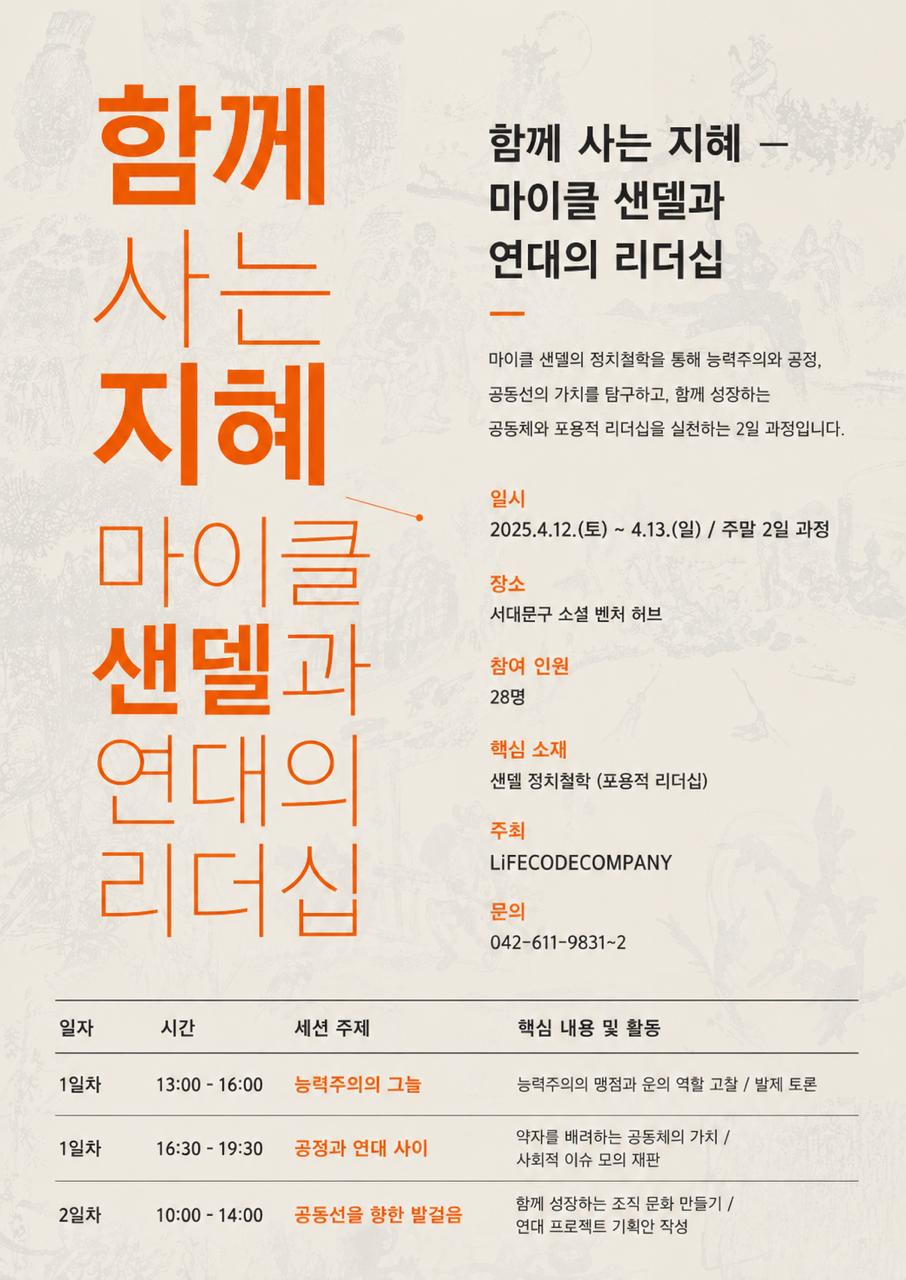
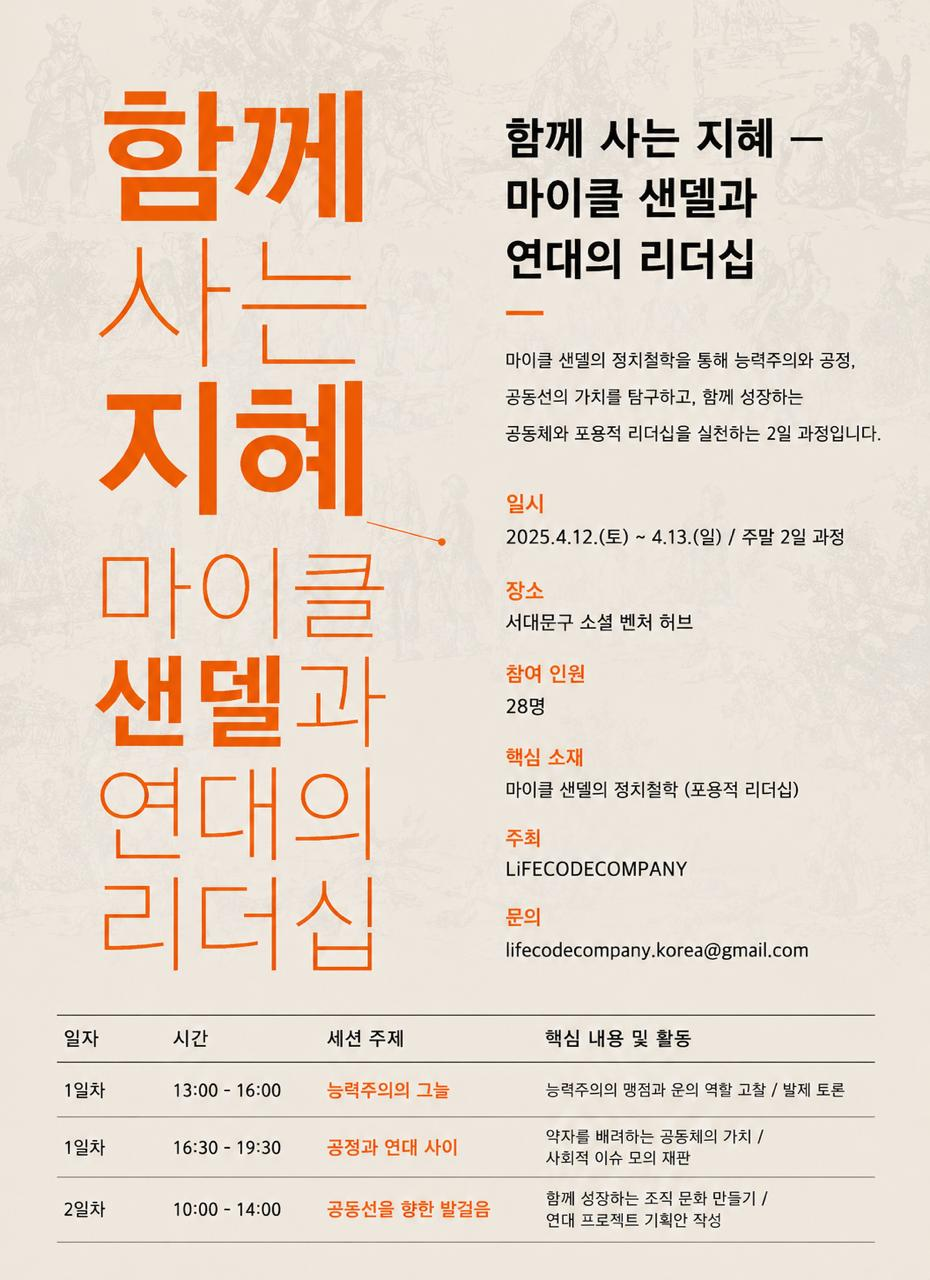
세미나3 포스터 교체, 마키 자동 스크롤 항상 동작 (reduce-motion 예외 제거)

diff --git a/about.html b/about.html
@@ -21,7 +21,7 @@
   <link rel="preconnect" href="https://fonts.gstatic.com" crossorigin />
   <link rel="stylesheet" as="style" crossorigin href="https://cdn.jsdelivr.net/gh/orioncactus/pretendard@v1.3.9/dist/web/static/pretendard.min.css" />
   <link href="https://fonts.googleapis.com/css2?family=Cormorant+Garamond:ital,wght@0,500;1,400;1,500;1,600&family=Inter:wght@400;500;600;700;800&family=Italiana&family=Italianno&display=swap" rel="stylesheet" />
-  <link rel="stylesheet" href="assets/css/styles.css?v=2" />
+  <link rel="stylesheet" href="assets/css/styles.css?v=3" />
 </head>
 <body>
 

diff --git a/contact.html b/contact.html
@@ -21,7 +21,7 @@
   <link rel="preconnect" href="https://fonts.gstatic.com" crossorigin />
   <link rel="stylesheet" as="style" crossorigin href="https://cdn.jsdelivr.net/gh/orioncactus/pretendard@v1.3.9/dist/web/static/pretendard.min.css" />
   <link href="https://fonts.googleapis.com/css2?family=Cormorant+Garamond:ital,wght@0,500;1,400;1,500;1,600&family=Inter:wght@400;500;600;700;800&family=Italiana&family=Italianno&display=swap" rel="stylesheet" />
-  <link rel="stylesheet" href="assets/css/styles.css?v=2" />
+  <link rel="stylesheet" href="assets/css/styles.css?v=3" />
 </head>
 <body>
 

diff --git a/insight-01.html b/insight-01.html
@@ -21,7 +21,7 @@
   <link rel="preconnect" href="https://fonts.gstatic.com" crossorigin />
   <link rel="stylesheet" as="style" crossorigin href="https://cdn.jsdelivr.net/gh/orioncactus/pretendard@v1.3.9/dist/web/static/pretendard.min.css" />
   <link href="https://fonts.googleapis.com/css2?family=Cormorant+Garamond:ital,wght@0,500;1,400;1,500;1,600&family=Inter:wght@400;500;600;700;800&family=Italiana&family=Italianno&display=swap" rel="stylesheet" />
-  <link rel="stylesheet" href="assets/css/styles.css?v=2" />
+  <link rel="stylesheet" href="assets/css/styles.css?v=3" />
 </head>
 <body>
 

diff --git a/insight-02.html b/insight-02.html
@@ -21,7 +21,7 @@
   <link rel="preconnect" href="https://fonts.gstatic.com" crossorigin />
   <link rel="stylesheet" as="style" crossorigin href="https://cdn.jsdelivr.net/gh/orioncactus/pretendard@v1.3.9/dist/web/static/pretendard.min.css" />
   <link href="https://fonts.googleapis.com/css2?family=Cormorant+Garamond:ital,wght@0,500;1,400;1,500;1,600&family=Inter:wght@400;500;600;700;800&family=Italiana&family=Italianno&display=swap" rel="stylesheet" />
-  <link rel="stylesheet" href="assets/css/styles.css?v=2" />
+  <link rel="stylesheet" href="assets/css/styles.css?v=3" />
 </head>
 <body>
 

diff --git a/insight-03.html b/insight-03.html
@@ -21,7 +21,7 @@
   <link rel="preconnect" href="https://fonts.gstatic.com" crossorigin />
   <link rel="stylesheet" as="style" crossorigin href="https://cdn.jsdelivr.net/gh/orioncactus/pretendard@v1.3.9/dist/web/static/pretendard.min.css" />
   <link href="https://fonts.googleapis.com/css2?family=Cormorant+Garamond:ital,wght@0,500;1,400;1,500;1,600&family=Inter:wght@400;500;600;700;800&family=Italiana&family=Italianno&display=swap" rel="stylesheet" />
-  <link rel="stylesheet" href="assets/css/styles.css?v=2" />
+  <link rel="stylesheet" href="assets/css/styles.css?v=3" />
 </head>
 <body>
 

diff --git a/insight-04.html b/insight-04.html
@@ -21,7 +21,7 @@
   <link rel="preconnect" href="https://fonts.gstatic.com" crossorigin />
   <link rel="stylesheet" as="style" crossorigin href="https://cdn.jsdelivr.net/gh/orioncactus/pretendard@v1.3.9/dist/web/static/pretendard.min.css" />
   <link href="https://fonts.googleapis.com/css2?family=Cormorant+Garamond:ital,wght@0,500;1,400;1,500;1,600&family=Inter:wght@400;500;600;700;800&family=Italiana&family=Italianno&display=swap" rel="stylesheet" />
-  <link rel="stylesheet" href="assets/css/styles.css?v=2" />
+  <link rel="stylesheet" href="assets/css/styles.css?v=3" />
 </head>
 <body>
 

diff --git a/insight-05.html b/insight-05.html
@@ -21,7 +21,7 @@
   <link rel="preconnect" href="https://fonts.gstatic.com" crossorigin />
   <link rel="stylesheet" as="style" crossorigin href="https://cdn.jsdelivr.net/gh/orioncactus/pretendard@v1.3.9/dist/web/static/pretendard.min.css" />
   <link href="https://fonts.googleapis.com/css2?family=Cormorant+Garamond:ital,wght@0,500;1,400;1,500;1,600&family=Inter:wght@400;500;600;700;800&family=Italiana&family=Italianno&display=swap" rel="stylesheet" />
-  <link rel="stylesheet" href="assets/css/styles.css?v=2" />
+  <link rel="stylesheet" href="assets/css/styles.css?v=3" />
 </head>
 <body>
 

diff --git a/insight-06.html b/insight-06.html
@@ -21,7 +21,7 @@
   <link rel="preconnect" href="https://fonts.gstatic.com" crossorigin />
   <link rel="stylesheet" as="style" crossorigin href="https://cdn.jsdelivr.net/gh/orioncactus/pretendard@v1.3.9/dist/web/static/pretendard.min.css" />
   <link href="https://fonts.googleapis.com/css2?family=Cormorant+Garamond:ital,wght@0,500;1,400;1,500;1,600&family=Inter:wght@400;500;600;700;800&family=Italiana&family=Italianno&display=swap" rel="stylesheet" />
-  <link rel="stylesheet" href="assets/css/styles.css?v=2" />
+  <link rel="stylesheet" href="assets/css/styles.css?v=3" />
 </head>
 <body>
 

diff --git a/insights.html b/insights.html
@@ -21,7 +21,7 @@
   <link rel="preconnect" href="https://fonts.gstatic.com" crossorigin />
   <link rel="stylesheet" as="style" crossorigin href="https://cdn.jsdelivr.net/gh/orioncactus/pretendard@v1.3.9/dist/web/static/pretendard.min.css" />
   <link href="https://fonts.googleapis.com/css2?family=Cormorant+Garamond:ital,wght@0,500;1,400;1,500;1,600&family=Inter:wght@400;500;600;700;800&family=Italiana&family=Italianno&display=swap" rel="stylesheet" />
-  <link rel="stylesheet" href="assets/css/styles.css?v=2" />
+  <link rel="stylesheet" href="assets/css/styles.css?v=3" />
 </head>
 <body>
 

diff --git a/method.html b/method.html
@@ -21,7 +21,7 @@
   <link rel="preconnect" href="https://fonts.gstatic.com" crossorigin />
   <link rel="stylesheet" as="style" crossorigin href="https://cdn.jsdelivr.net/gh/orioncactus/pretendard@v1.3.9/dist/web/static/pretendard.min.css" />
   <link href="https://fonts.googleapis.com/css2?family=Cormorant+Garamond:ital,wght@0,500;1,400;1,500;1,600&family=Inter:wght@400;500;600;700;800&family=Italiana&family=Italianno&display=swap" rel="stylesheet" />
-  <link rel="stylesheet" href="assets/css/styles.css?v=2" />
+  <link rel="stylesheet" href="assets/css/styles.css?v=3" />
 </head>
 <body>
 

diff --git a/privacy.html b/privacy.html
@@ -21,7 +21,7 @@
   <link rel="preconnect" href="https://fonts.gstatic.com" crossorigin />
   <link rel="stylesheet" as="style" crossorigin href="https://cdn.jsdelivr.net/gh/orioncactus/pretendard@v1.3.9/dist/web/static/pretendard.min.css" />
   <link href="https://fonts.googleapis.com/css2?family=Cormorant+Garamond:ital,wght@0,500;1,400;1,500;1,600&family=Inter:wght@400;500;600;700;800&family=Italiana&family=Italianno&display=swap" rel="stylesheet" />
-  <link rel="stylesheet" href="assets/css/styles.css?v=2" />
+  <link rel="stylesheet" href="assets/css/styles.css?v=3" />
 </head>
 <body>
 

diff --git a/programs.html b/programs.html
@@ -21,7 +21,7 @@
   <link rel="preconnect" href="https://fonts.gstatic.com" crossorigin />
   <link rel="stylesheet" as="style" crossorigin href="https://cdn.jsdelivr.net/gh/orioncactus/pretendard@v1.3.9/dist/web/static/pretendard.min.css" />
   <link href="https://fonts.googleapis.com/css2?family=Cormorant+Garamond:ital,wght@0,500;1,400;1,500;1,600&family=Inter:wght@400;500;600;700;800&family=Italiana&family=Italianno&display=swap" rel="stylesheet" />
-  <link rel="stylesheet" href="assets/css/styles.css?v=2" />
+  <link rel="stylesheet" href="assets/css/styles.css?v=3" />
 </head>
 <body>
 
